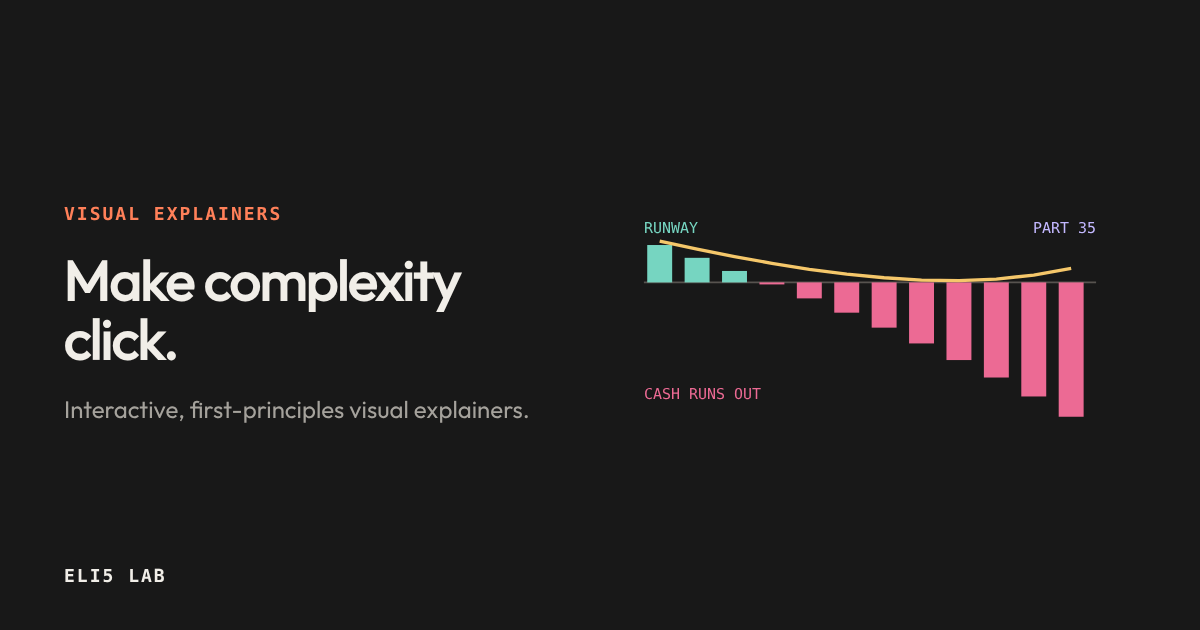
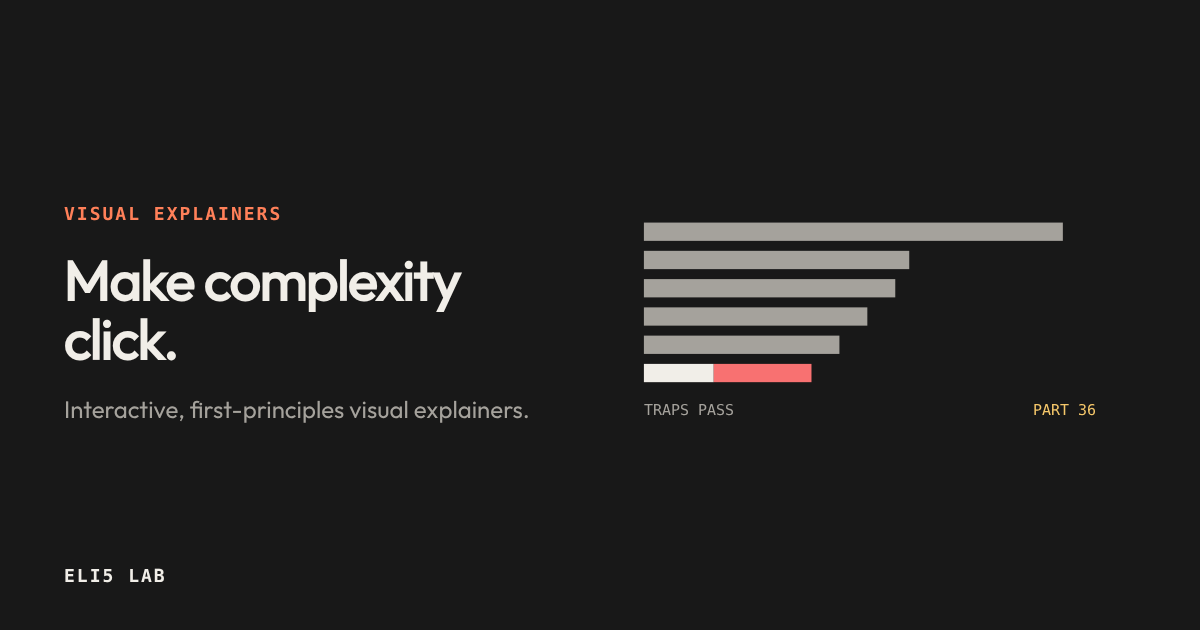
content: publish Part 36, "Screening for ideas"
Claude-Session: https://claude.ai/code/session_01UXW7E4aVSwbFHa7ZdPFLc9

Changed region(s): [[0.5242, 0.3317, 0.925, 0.6635]]

diff --git a/published.js b/published.js
@@ -1,5 +1,29 @@
 window.PUBLISHED = [
   {
+    "id": "screening-for-ideas-eli5",
+    "title": "Screening for ideas",
+    "category": "Monetary Architecture",
+    "minutes": 17,
+    "summary": "Part 36: filters that find candidates, the traps they pass, and survivorship bias",
+    "bullets": [
+      "A screen is a few lines on ratios; it shortens the list but cannot see why something is cheap",
+      "Cyclicals at the peak, falling businesses and shaky governance pass screens; backtests that forget dead companies flatter them"
+    ],
+    "kind": "flow",
+    "color": "#ff8059",
+    "nodes": [
+      "FILTERS",
+      "FUNNEL",
+      "TRAPS",
+      "SURVIVORS"
+    ],
+    "file": "explainers/screening-for-ideas-eli5.html",
+    "date": "2026-11-24",
+    "subcategory": "Fundamental analysis, from scratch",
+    "card": "<svg viewBox=\"0 0 320 155\" role=\"img\" aria-label=\"A funnel of bars shrinking from 30 companies to 12 as filters are applied, with the last bar split into 5 pale no-trap and 7 red trap companies\"><rect x=\"24\" y=\"22\" width=\"252.0\" height=\"11\" fill=\"#a5a29c\"/><rect x=\"24\" y=\"39\" width=\"159.6\" height=\"11\" fill=\"#a5a29c\"/><rect x=\"24\" y=\"56\" width=\"151.2\" height=\"11\" fill=\"#a5a29c\"/><rect x=\"24\" y=\"73\" width=\"134.4\" height=\"11\" fill=\"#a5a29c\"/><rect x=\"24\" y=\"90\" width=\"117.6\" height=\"11\" fill=\"#a5a29c\"/><rect x=\"24\" y=\"107\" width=\"42.0\" height=\"11\" fill=\"#f1eee8\"/><rect x=\"66.0\" y=\"107\" width=\"58.8\" height=\"11\" fill=\"#f87171\"/><g font-family=\"monospace\" font-size=\"9\"><text x=\"24\" y=\"138\" fill=\"#a5a29c\">TRAPS PASS</text><text x=\"296\" y=\"138\" text-anchor=\"end\" fill=\"#f5c76a\">PART 36</text></g></svg>",
+    "part": 36
+  },
+  {
     "id": "loss-makers-and-ipos-eli5",
     "title": "Loss-making companies and IPOs",
     "category": "Monetary Architecture",

diff --git a/explainers/screening-for-ideas-eli5.html b/explainers/screening-for-ideas-eli5.html
@@ -113,6 +113,20 @@
     .dashlab ul.why{margin:12px 0 0;padding-left:20px}.dashlab ul.why li{margin:8px 0;font-size:15px}
     @media (max-width:700px){.eli5-study-container table.rep{min-width:0;font-size:13px}.rep th,.rep td{padding:6px 4px}.rep td.wk{font-size:11px;word-break:break-word}.rep td.pg{white-space:normal;font-size:10px}.rep td.val{white-space:normal}.scr{font-size:13px}.scr th,.scr td{padding:6px 3px}.scr .sec{display:none}.scr th{font-size:10px;letter-spacing:.02em}}
   </style>
+<!-- link-preview:start -->
+<meta name="description" content="Part 36: filters that find candidates, the traps they pass, and survivorship bias">
+<link rel="canonical" href="https://eli5-seven-mu.vercel.app/explainers/screening-for-ideas-eli5">
+<meta property="og:type" content="article">
+<meta property="og:site_name" content="ELI5 Lab">
+<meta property="og:title" content="Screening for ideas">
+<meta property="og:description" content="Part 36: filters that find candidates, the traps they pass, and survivorship bias">
+<meta property="og:url" content="https://eli5-seven-mu.vercel.app/explainers/screening-for-ideas-eli5">
+<meta property="og:image" content="https://eli5-seven-mu.vercel.app/assets/og/screening-for-ideas-eli5.png?v=8d6edd76">
+<meta property="og:image:width" content="1200"><meta property="og:image:height" content="630">
+<meta property="og:image:alt" content="Screening for ideas">
+<meta property="article:published_time" content="2026-11-24">
+<meta name="twitter:card" content="summary_large_image">
+<!-- link-preview:end -->
 </head>
 <body data-series-id="screening-for-ideas-eli5">
   <div class="eli5-progress-track"><div class="eli5-progress-fill" id="readingProgress"></div></div>
